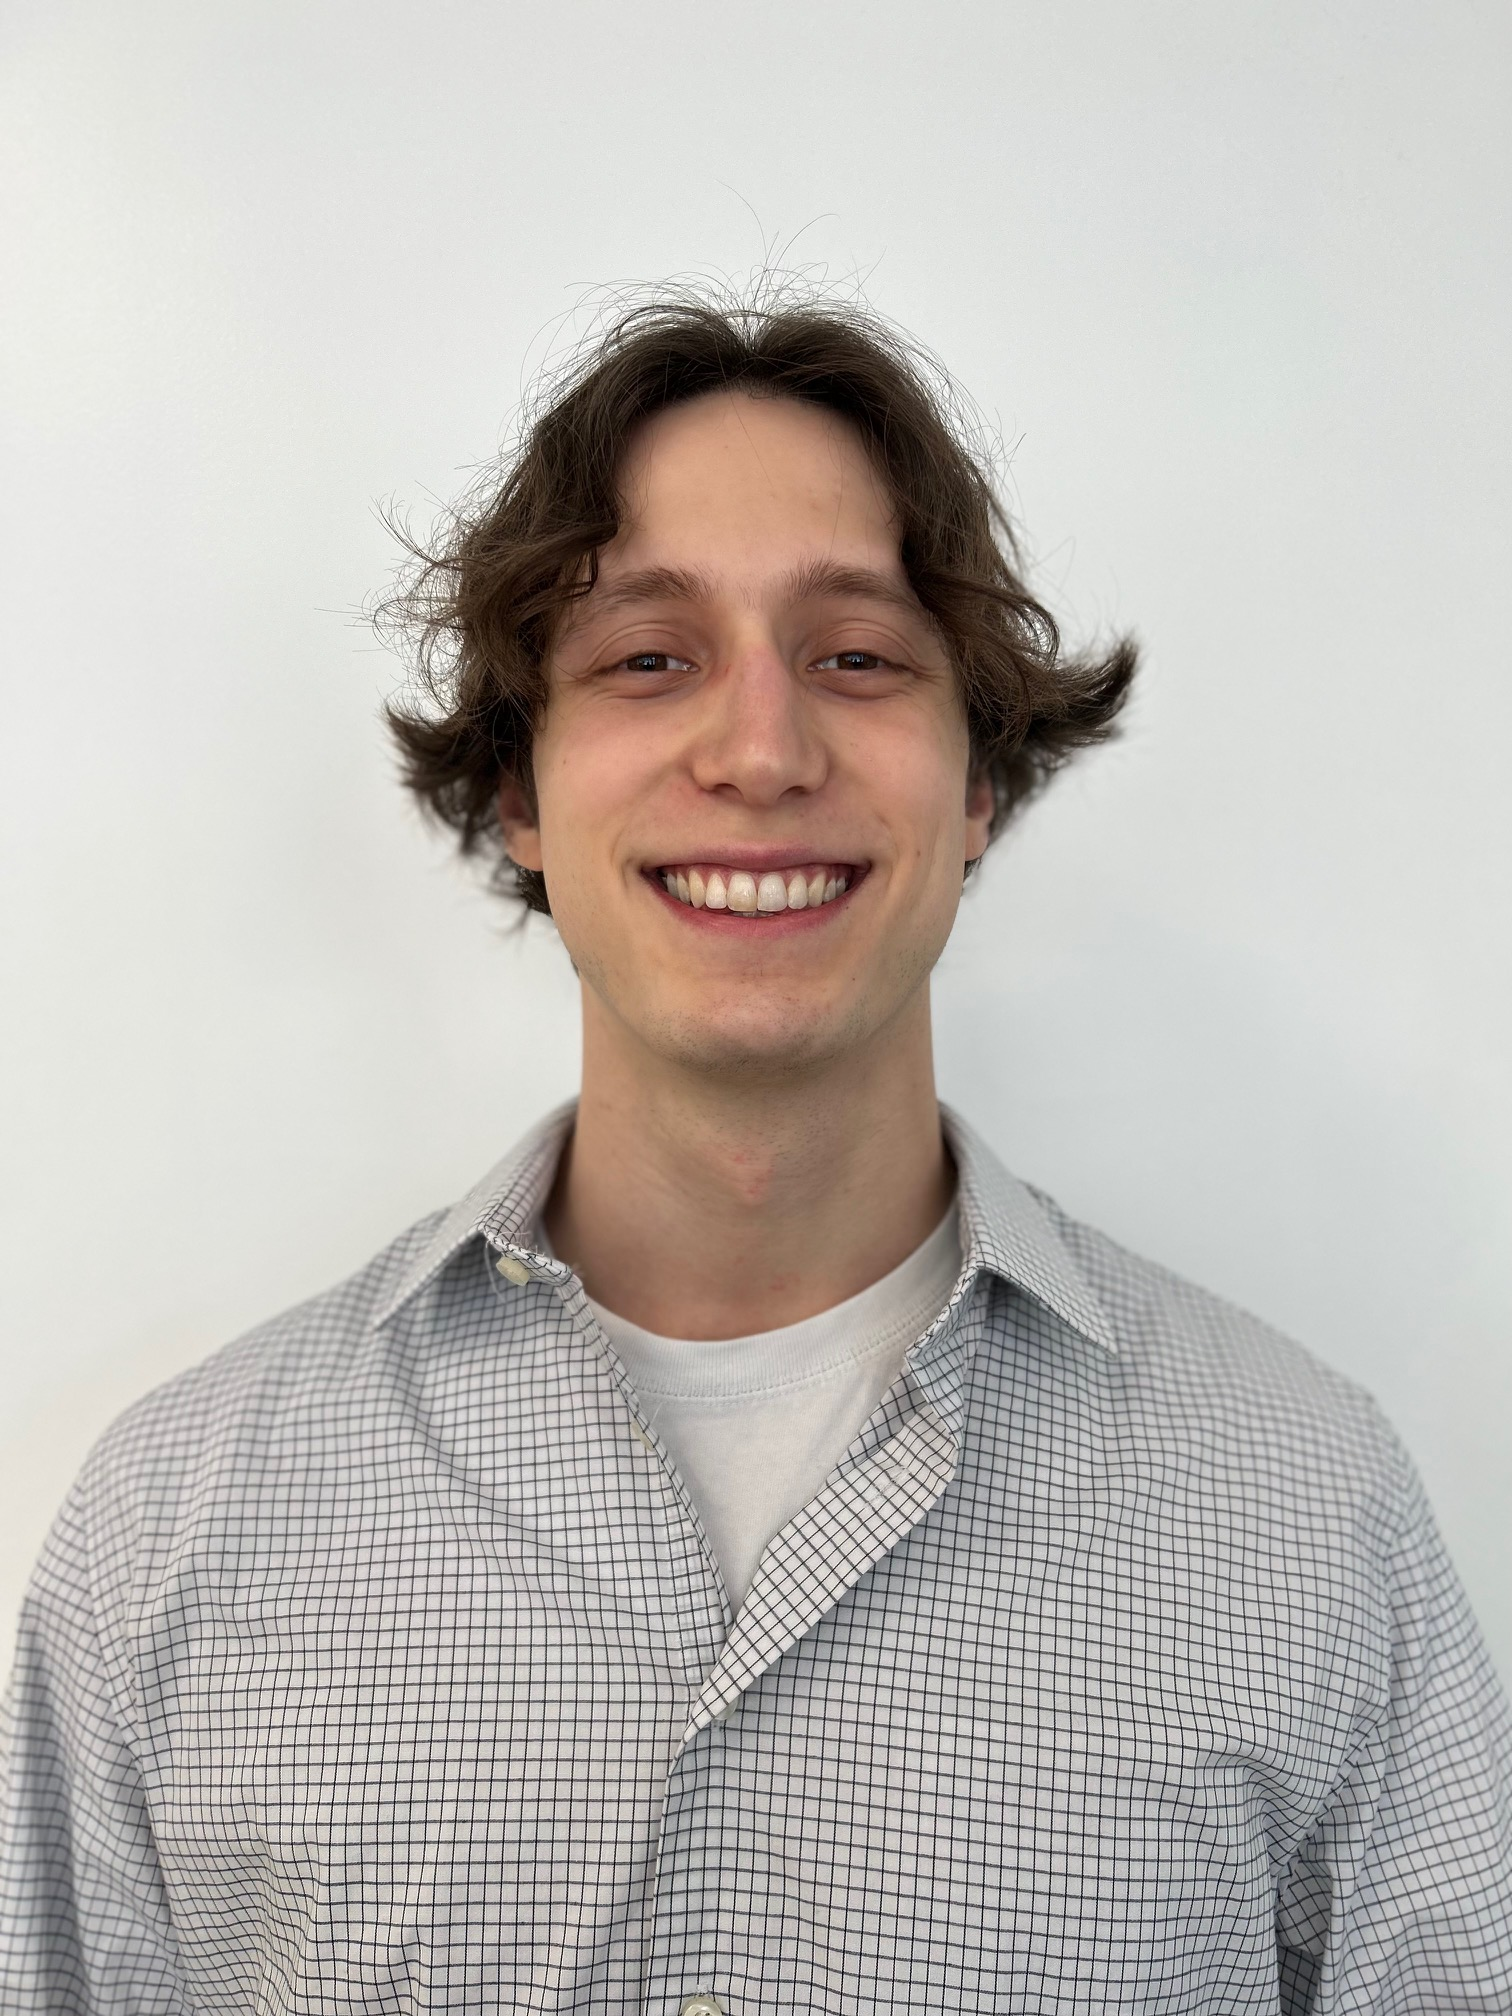
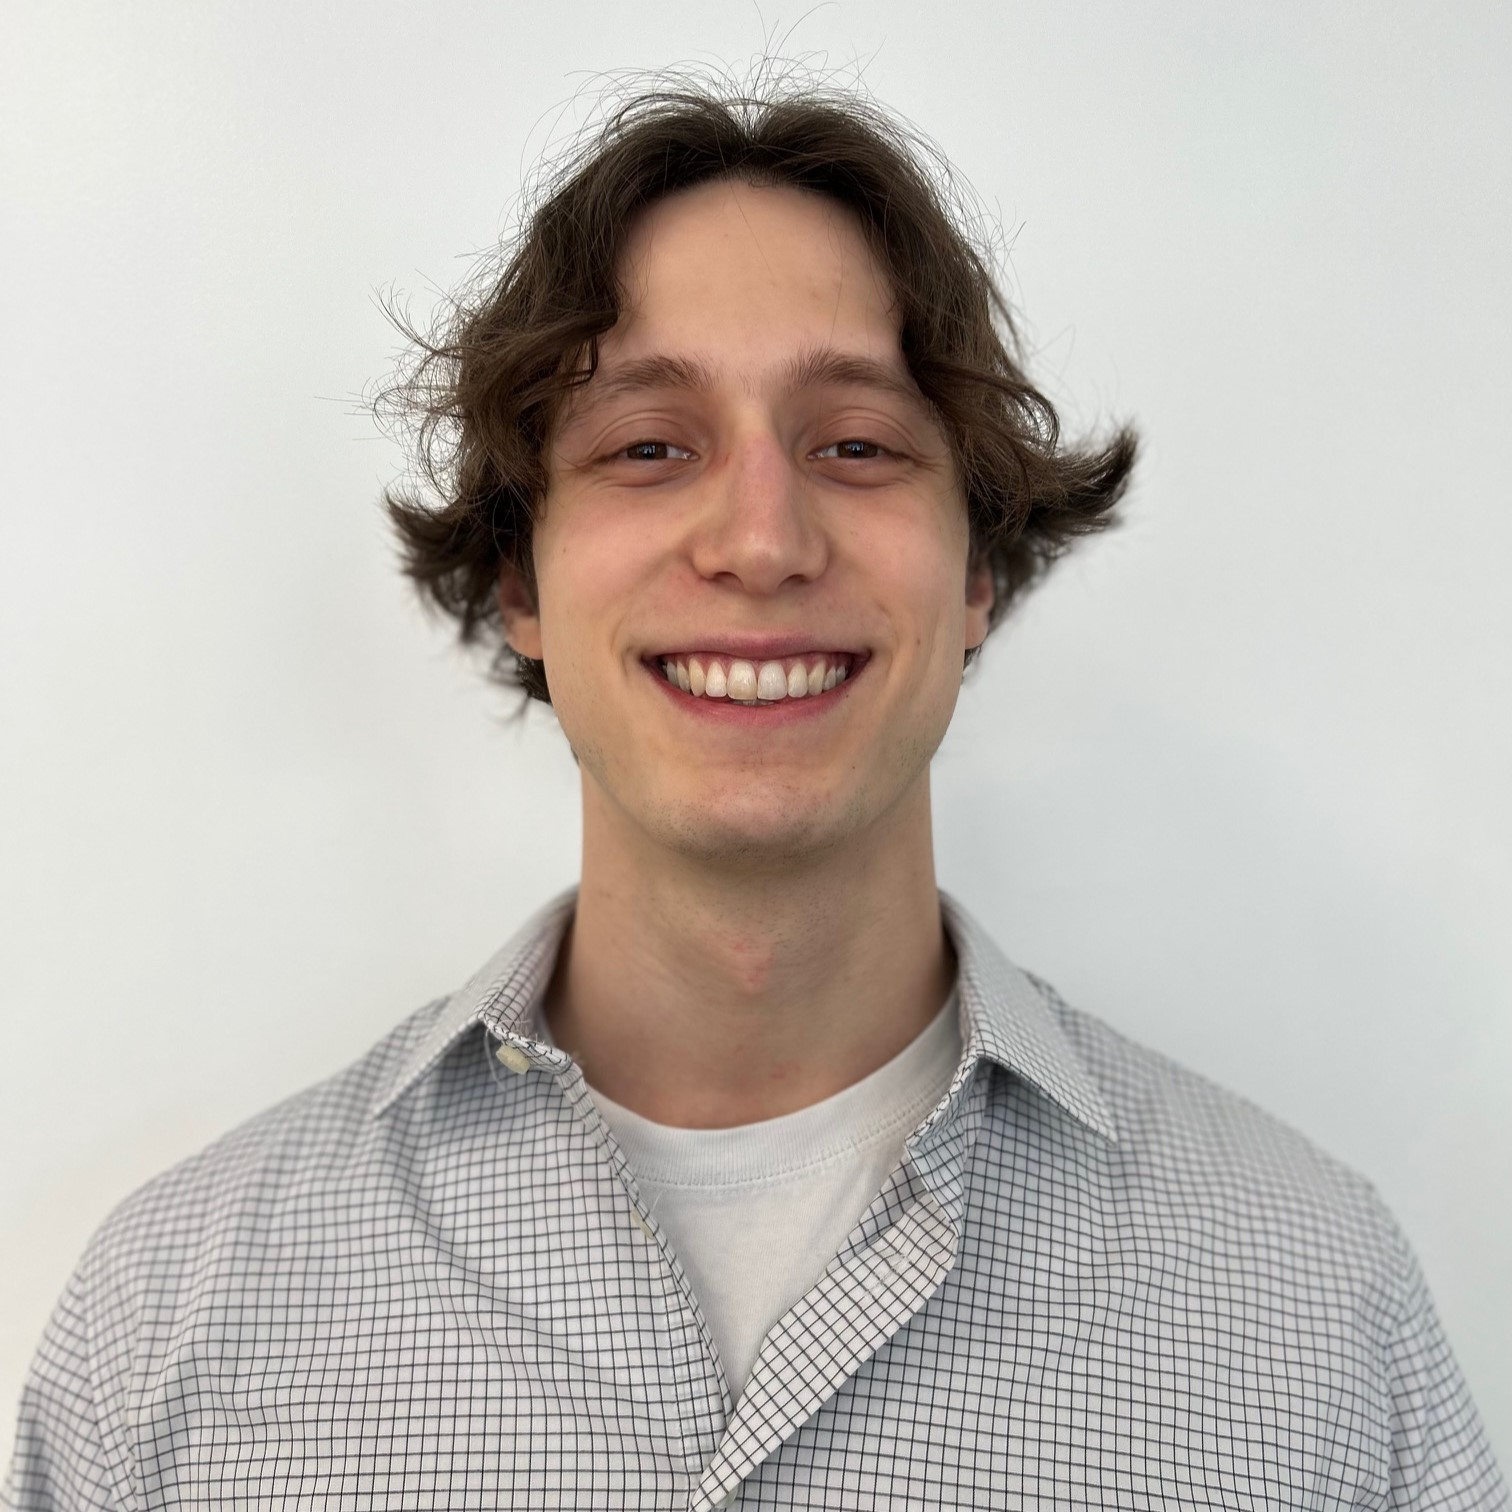
Fix: Crop source image to 1:1 ratio, add mb-2 class to the img in html, add transform: scale(0.25) to the style.

diff --git a/home_contact/templates/home.html b/home_contact/templates/home.html
@@ -18,7 +18,7 @@
     <div class="col" id="bs-content-override">
         {% for ap in aps %}
             <h1>{{ ap.title }}</h1>            
-            <img src="{% static ap.photo %}" style="border-radius: 50%; size:25%;">            
+            <img src="{% static ap.photo %}" class="mb-2" style="border-radius: 50%; transform: scale(0.25)">            
             <p id="about-me">{{ ap.content }}</p>
         {% endfor %}
         <h1>Contact</h1>
